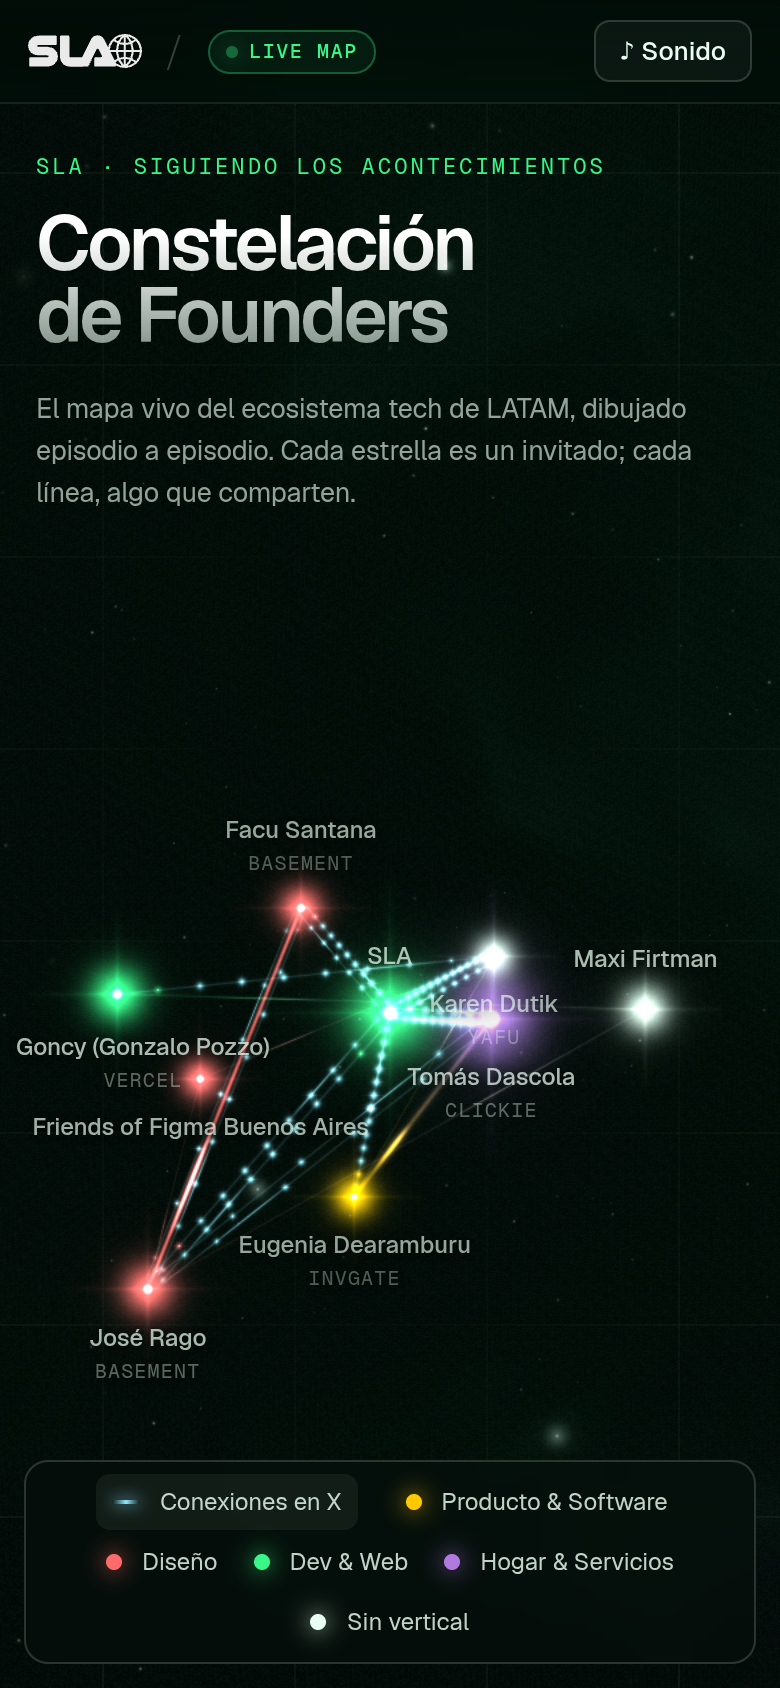
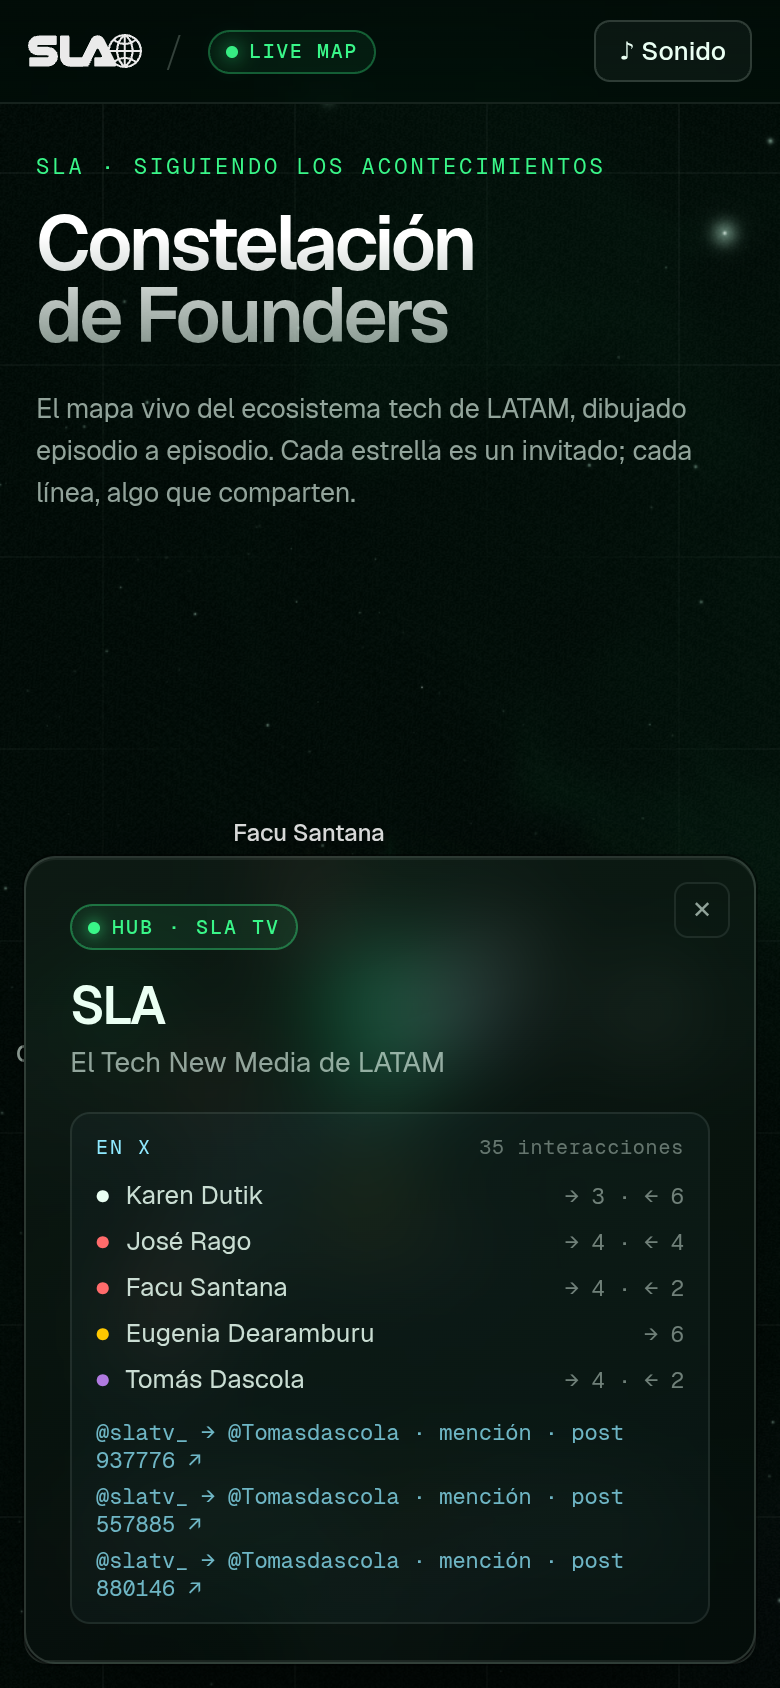
Mobile: touch-aware tap detection (larger hit radius, tap slop, pointercancel); brighter far X streams

diff --git a/app.js b/app.js
@@ -172,7 +172,7 @@ function loop(now) {
     let pos = cands[0]; for (const c of cands) { if (!boxes.some(b => c[0] < b[2] && c[0] + w > b[0] && c[1] < b[3] && c[1] + h > b[1])) { pos = c; break; } }
     pos = [Math.max(8, Math.min(W - w - 8, pos[0])), pos[1]];
     boxes.push([pos[0] - 4, pos[1] - 2, pos[0] + w + 4, pos[1] + h + 2]);
-    s.el.style.transform = `translate(${pos[0].toFixed(1)}px,${pos[1].toFixed(1)}px)`;
+    s.el.style.transform = `translate(${pos[0].toFixed(1)}px,${pos[1].toFixed(1)}px)`; s.el.dataset.sx = s.sx | 0; s.el.dataset.sy = s.sy | 0;
     s.el.classList.toggle('on', !!on); s.el.classList.toggle('dim', !visible(s) || (!!focus && !on)); s.el.style.opacity = (Math.min(1, s.k * 1.1)).toFixed(2); }
   gl ? drawGL(t) : draw2D(t);
   requestAnimationFrame(loop);
@@ -190,7 +190,7 @@ function lineQuads(t) {
   if (showX) for (const l of xlinks) { const a = l.a, b = l.b; if (!visible(a) || !visible(b)) continue;
     const hot = focus && (a === focus || b === focus); const o = l.mutual ? 2.5 : 0;
     const dx = b.sx - a.sx, dy = b.sy - a.sy, len = Math.hypot(dx, dy) || 1, nx = -dy / len, ny = dx / len, w = (2 + Math.min(4, l.count * .5)) * (a.k + b.k) / 2;
-    const al = (hot ? .6 : focus ? .06 : .26); const P = (x, y, ux, uy) => v.push(x + nx * o, y + ny * o, ux, uy, ...XCOL, ...XCOL, al);
+    const al = (hot ? .6 : focus ? .06 : .34) * Math.max(1, 1.6 - (a.k + b.k) / 2); const P = (x, y, ux, uy) => v.push(x + nx * o, y + ny * o, ux, uy, ...XCOL, ...XCOL, al);
     P(a.sx + nx * w, a.sy + ny * w, 0, 1); P(a.sx - nx * w, a.sy - ny * w, 0, -1); P(b.sx + nx * w, b.sy + ny * w, 1, 1);
     P(b.sx + nx * w, b.sy + ny * w, 1, 1); P(a.sx - nx * w, a.sy - ny * w, 0, -1); P(b.sx - nx * w, b.sy - ny * w, 1, -1); }
   return new Float32Array(v);
@@ -202,8 +202,8 @@ function xParticles(t, pv) { if (!showX) return; const focus = sel || hover;
     const n = Math.min(14, 3 + l.count * 2), speed = .08 + Math.min(.22, l.count * .025);
     const dx = b.sx - a.sx, dy = b.sy - a.sy, len = Math.hypot(dx, dy) || 1, nx = -dy / len * (l.mutual ? 2.5 : 0), ny = dx / len * (l.mutual ? 2.5 : 0);
     for (let i = 0; i < n; i++) { const u = ((reduce ? 0 : t * speed) + i / n + l.ph) % 1, e = Math.sin(u * Math.PI);
-      const k = Math.max(.85, a.k + (b.k - a.k) * u);
-      pv.push(a.sx + dx * u + nx, a.sy + dy * u + ny, (9 + Math.min(8, l.count)) * k * (hot ? 1.5 : 1), ...(u > .85 ? b.col : XCOL), Math.min(1, .75 + l.count * .05) * Math.pow(e, .6) * dim); } } }
+      const k = Math.max(1, a.k + (b.k - a.k) * u);
+      pv.push(a.sx + dx * u + nx, a.sy + dy * u + ny, (9 + Math.min(8, l.count)) * k * (hot ? 1.5 : 1), ...(u > .85 ? b.col : XCOL), Math.min(1, .9 + l.count * .04) * Math.pow(e, .5) * dim); } } }
 function drawGL(t) {
   gl.disable(gl.BLEND); const B = prog.bg; gl.useProgram(B.p); gl.bindBuffer(gl.ARRAY_BUFFER, prog.tri);
   gl.enableVertexAttribArray(B.a.p); gl.vertexAttribPointer(B.a.p, 2, gl.FLOAT, false, 0, 0);
@@ -236,15 +236,17 @@ function draw2D(t) {
 }
 
 // ---------- input ----------
-let dragging = false, moved = 0, lx = 0, ly = 0;
-function pick(x, y) { let b = null, bd = W < 720 ? 34 : 26; for (const s of stars) { if (!visible(s)) continue; const d = Math.hypot(s.sx - x, s.sy - y); if (d < bd) { bd = d; b = s; } } return b; }
+let dragging = false, moved = 0, lx = 0, ly = 0, ptype = 'mouse', downAt = 0;
+function pick(x, y) { let b = null, bd = ptype === 'mouse' ? 26 : 44; for (const s of stars) { if (!visible(s)) continue; const d = Math.hypot(s.sx - x, s.sy - y); if (d < bd) { bd = d; b = s; } } return b; }
+const tapSlop = () => ptype === 'mouse' ? 6 : 14;
 function bindInput() {
-  C.addEventListener('pointerdown', e => { dragging = true; moved = 0; lx = e.clientX; ly = e.clientY; C.setPointerCapture(e.pointerId); C.classList.add('drag'); });
+  C.addEventListener('pointercancel', () => { dragging = false; C.classList.remove('drag'); });
+  C.addEventListener('pointerdown', e => { ptype = e.pointerType || 'mouse'; downAt = performance.now(); dragging = true; moved = 0; lx = e.clientX; ly = e.clientY; C.setPointerCapture(e.pointerId); C.classList.add('drag'); });
   C.addEventListener('pointermove', e => { mouse = [e.clientX / W - .5, e.clientY / H - .5];
     if (dragging) { const dx = e.clientX - lx, dy = e.clientY - ly; moved += Math.abs(dx) + Math.abs(dy); lx = e.clientX; ly = e.clientY;
-      cam.yaw += dx * .005; cam.pitch += dy * .004; cam.vy = dx * .0008; cam.vp = dy * .0006; if (moved > 6) $('hint').style.opacity = 0; return; }
+      cam.yaw += dx * .005; cam.pitch += dy * .004; cam.vy = dx * .0008; cam.vp = dy * .0006; if (moved > tapSlop()) $('hint').style.opacity = 0; return; }
     hover = pick(e.clientX, e.clientY); C.classList.toggle('hot', !!hover); });
-  C.addEventListener('pointerup', e => { dragging = false; C.classList.remove('drag'); if (moved < 6) { const s = pick(e.clientX, e.clientY); s ? show(s) : hide(); } });
+  C.addEventListener('pointerup', e => { dragging = false; C.classList.remove('drag'); if (moved < tapSlop() || (ptype !== 'mouse' && performance.now() - downAt < 250 && moved < 24)) { cam.vy = cam.vp = 0; const s = pick(e.clientX, e.clientY); s ? show(s) : hide(); } });
   C.addEventListener('pointerleave', () => { hover = null; });
   C.addEventListener('wheel', e => { e.preventDefault(); cam.zoom = Math.max(.7, Math.min(1.8, cam.zoom * Math.exp(-e.deltaY * .001))); }, { passive: false });
   $('close').onclick = hide; addEventListener('keydown', e => { if (e.key === 'Escape') hide(); });
@@ -274,7 +276,7 @@ function xSection(s) { const rel = xlinks.filter(l => l.a === s || l.b === s); i
   const ex = rel.flatMap(l => l.examples.map(e => ({ ...e, from: l.a, to: l.b }))).sort((x, y) => y.at.localeCompare(x.at)).filter((e, i, a) => a.findIndex(z => z.u === e.u) === i).slice(0, 3);
   return `<div class="xsec"><div class="xh"><span>EN X</span><span>${rel.reduce((n, l) => n + l.count, 0)} interacciones</span></div>
     ${rows.map(r => `<div class="xr"><b style="color:${r.o.css}">●</b><span>${esc(r.o.p.name)}</span><small>${r.out ? '→ ' + r.out : ''}${r.out && r.inn ? ' · ' : ''}${r.inn ? '← ' + r.inn : ''}</small></div>`).join('')}
-    <div class="xex">${ex.map(e => `<a href="${esc(e.u)}" target="_blank" rel="noopener">@${esc(e.from.p.social?.x || '')} → @${esc(e.to.p.social?.x || '')} · ${TY[e.type] || e.type} · ${esc(e.at.slice(0, 10))} ↗</a>`).join('')}</div></div>`; }
+    <div class="xex">${ex.map(e => `<a href="${esc(e.u)}" target="_blank" rel="noopener">@${esc(e.from.p.social?.x || '')} → @${esc(e.to.p.social?.x || '')} · ${TY[e.type] || e.type} · post ${esc(e.u.split('/').pop().slice(-6))} ↗</a>`).join('')}</div></div>`; }
 function hide() { sel = null; $('card').hidden = true; }
 
 // ---------- ambient sound (WebAudio, no assets) ----------
